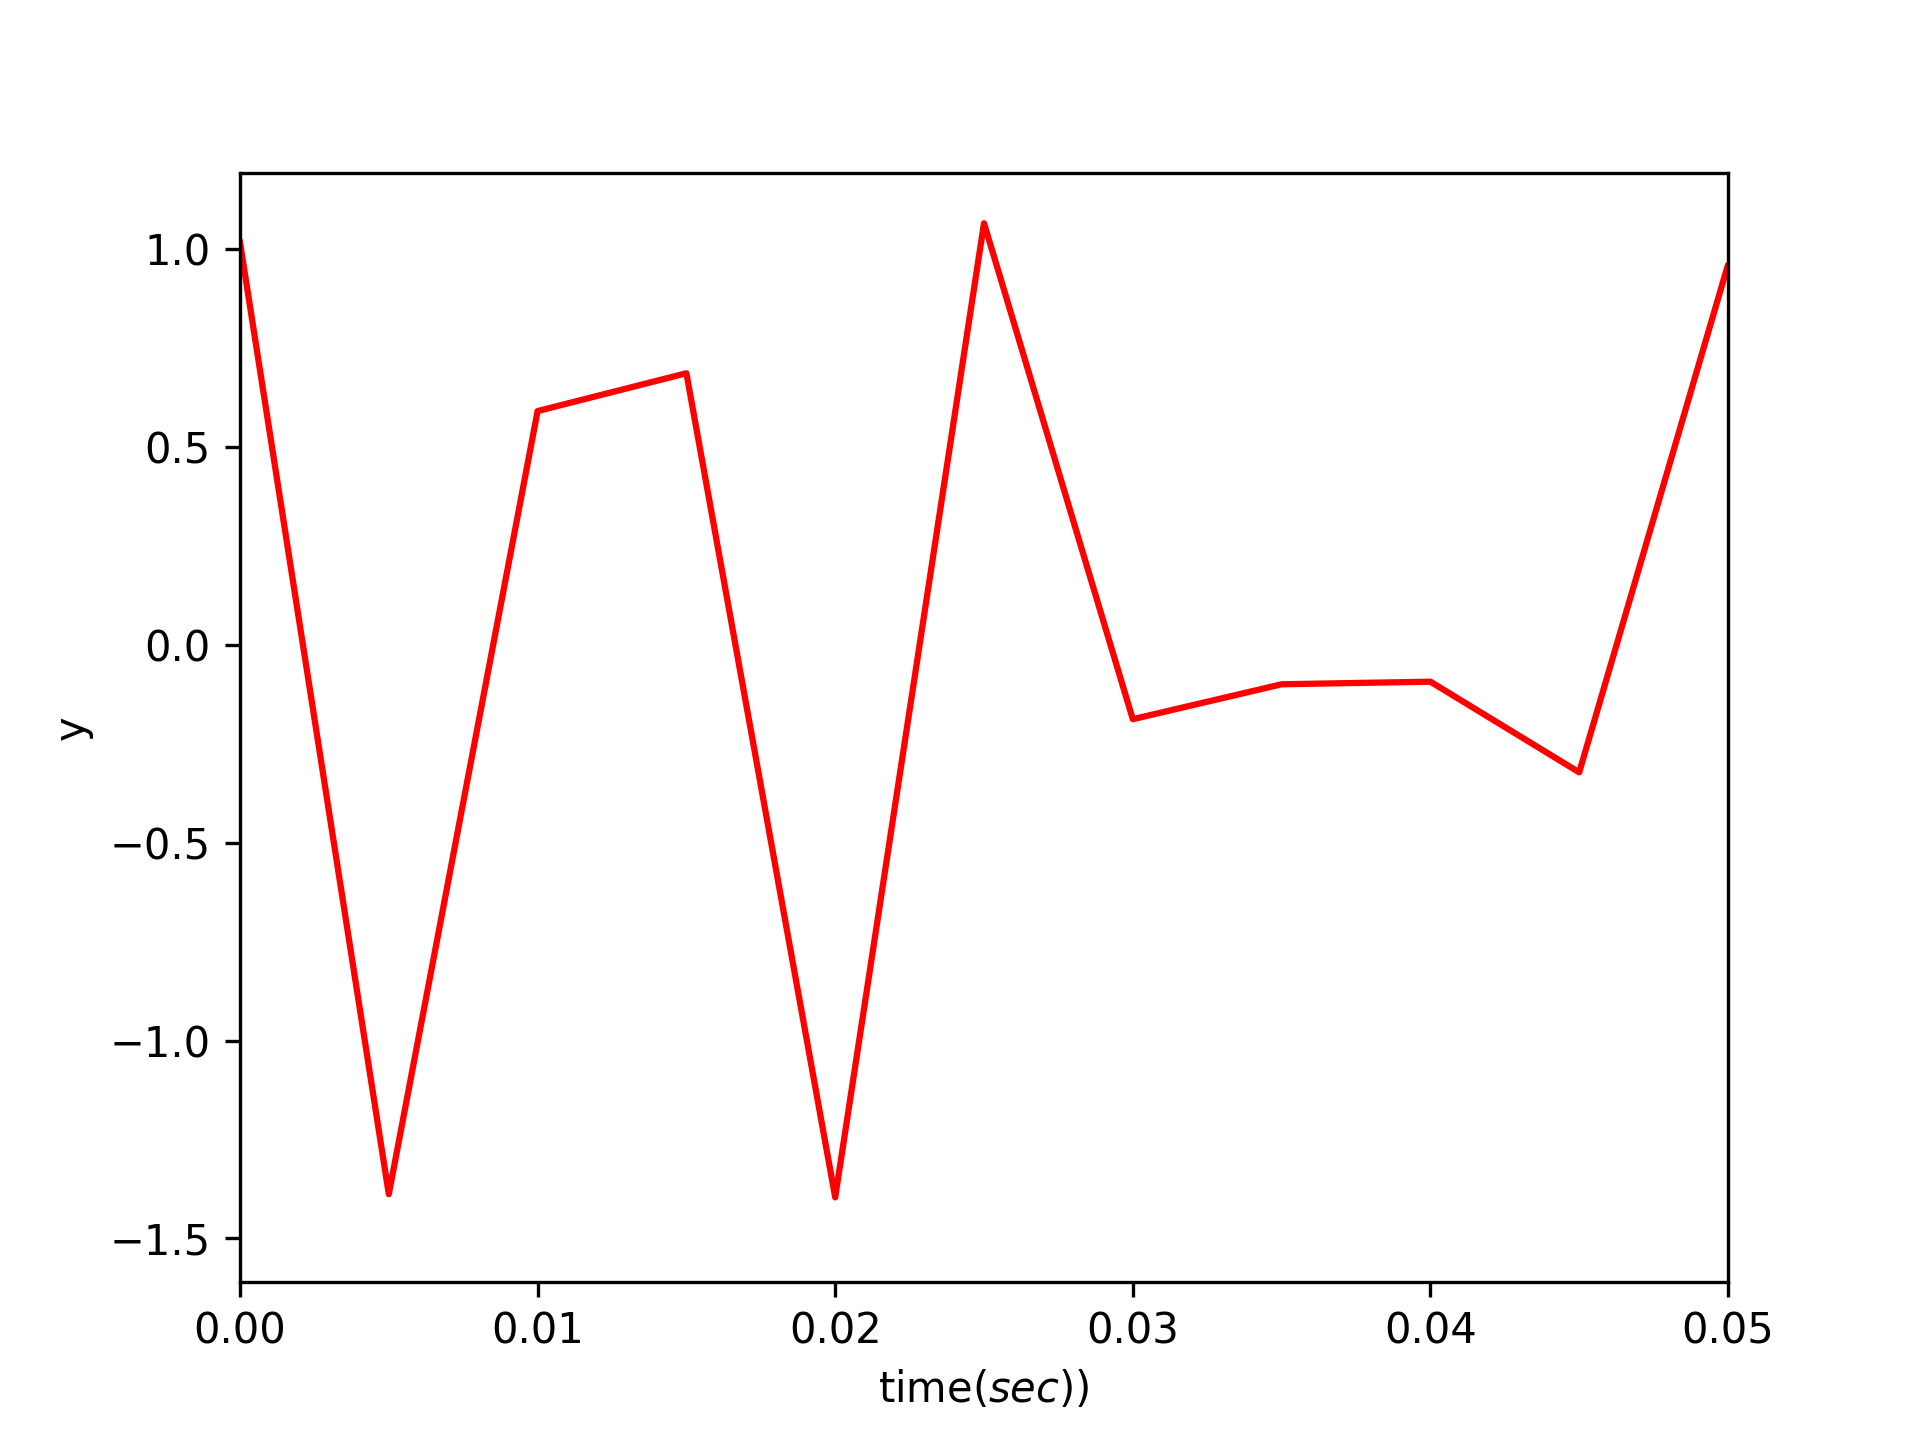
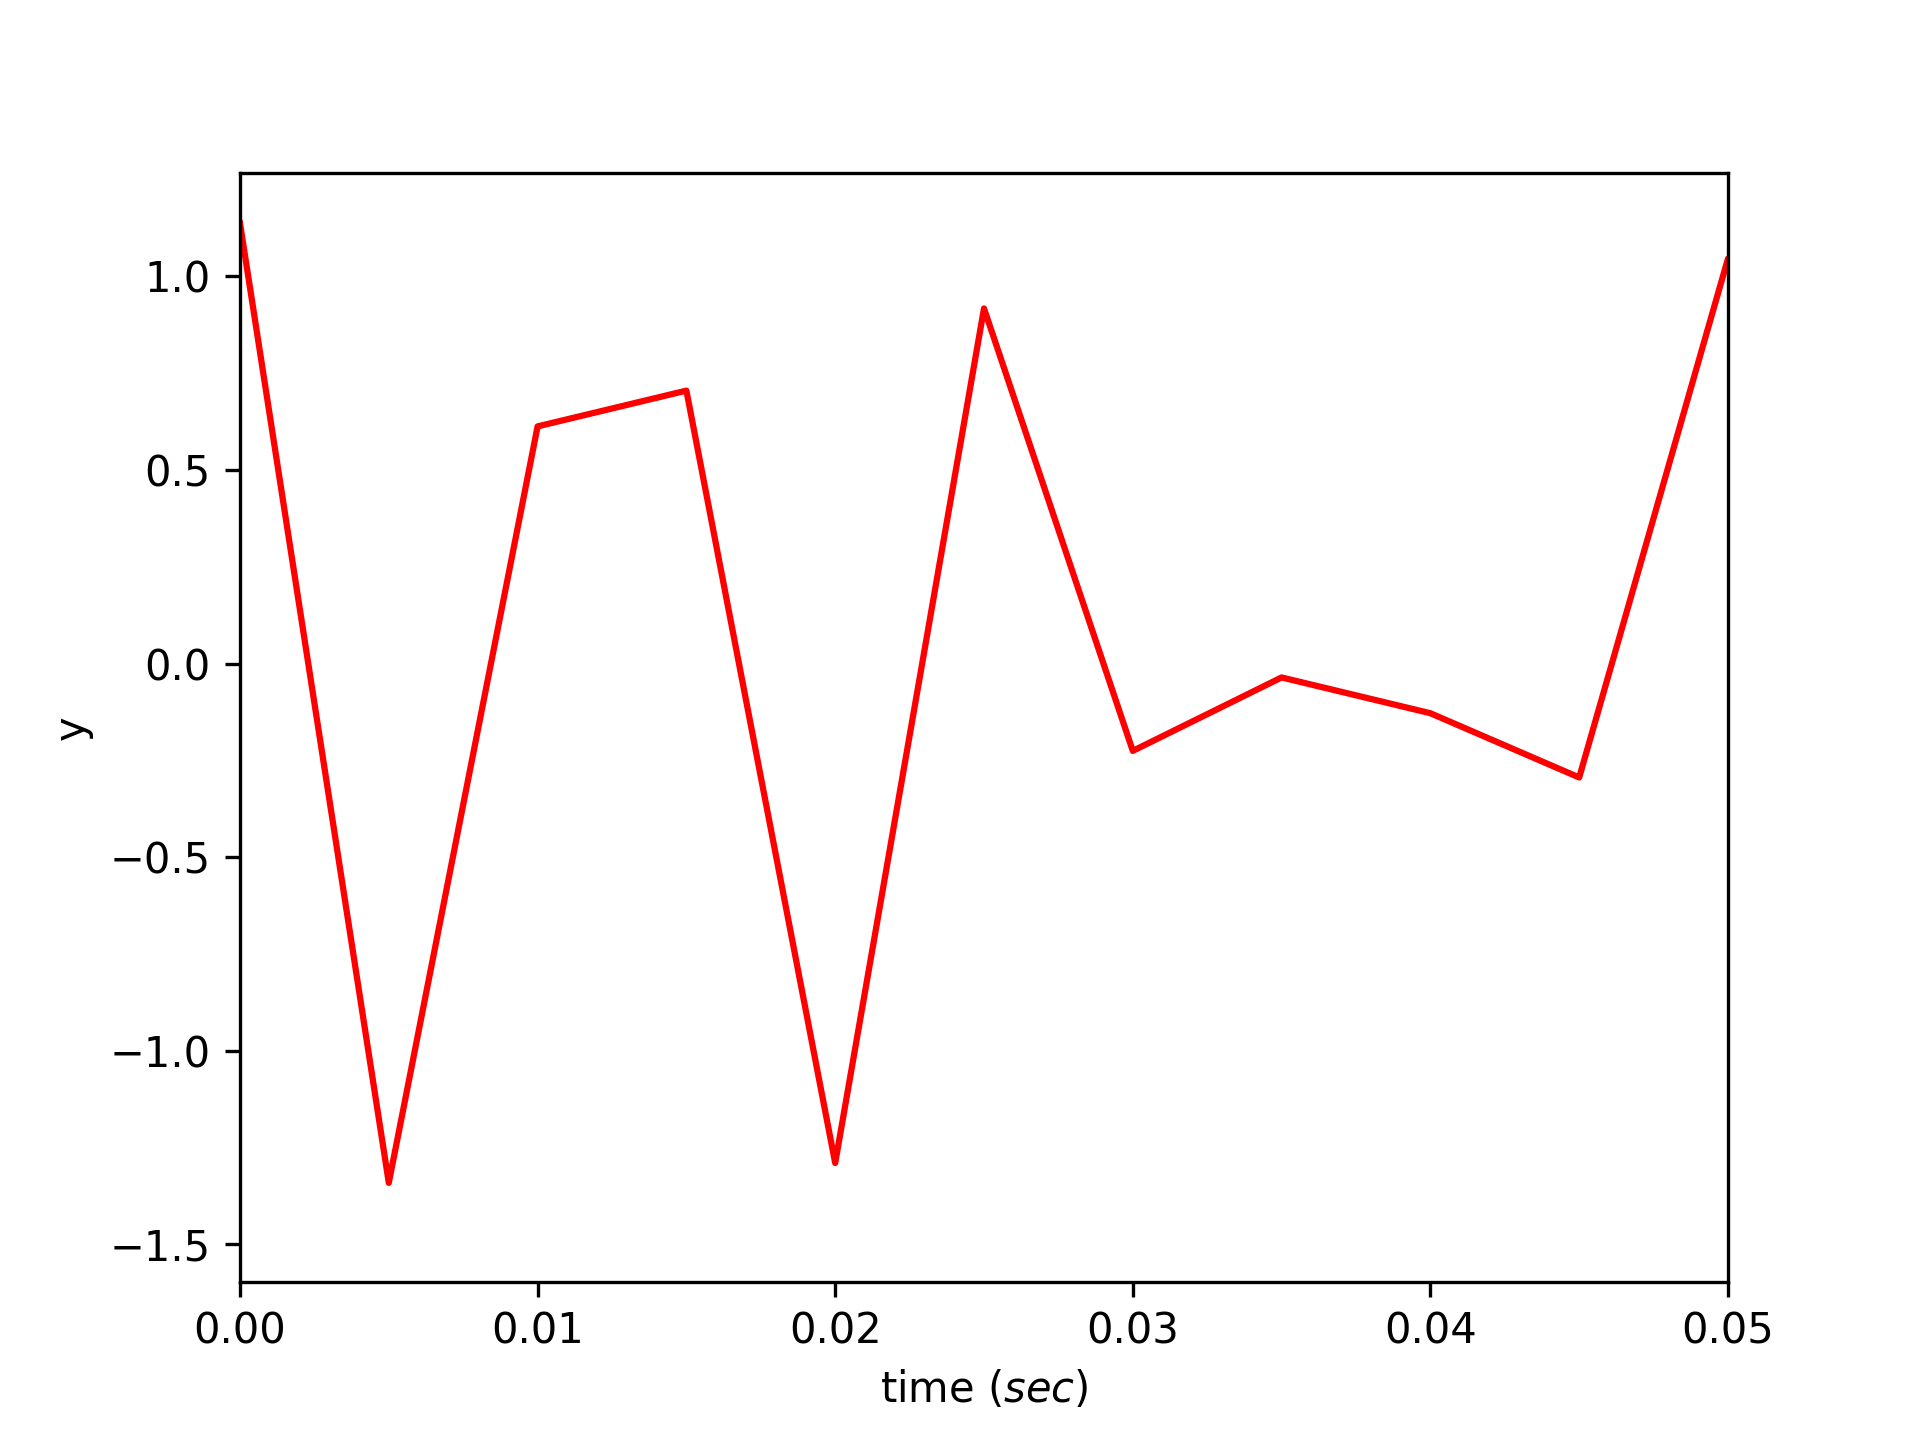
Style : modified Annotation
- 02chap/09_FFT.py
- #2

diff --git a/02chap/09_FFT.py b/02chap/09_FFT.py
@@ -6,72 +6,70 @@ import math
 St = 0.005                      # St : Sampling Time (샘플링 시간 간격)
 Fs = 1 / St                     # Fs : Sampling Frequency (샘플링 주파수) = 2000Hz, 1초 동안 2000번 샘플링
 T = 1 / Fs                      # T : Sampling Period (샘플링 주기) = 0.0005초
-te = 0.5                        # te : Sampling interval time (샘플링할 전체 시간 길이)
+te = 0.5                        # te : Total Sampling Time (샘플링할 전체 시간 길이)
 
-# Generating frequency arrays over time
+# Generating time vector
 t = np.arange(0, te, T)         # t : Time Vector, 0초부터 te까지 T 간격으로 시간 배열 생성
 
-# Define Noise (평균 0, 표준편차 0.05인 가우시안 분포를 따르는 랜덤 값, 길이는 t와 동일)
-noise = np.random.normal(0, 0.05, len(t))
+# Define Noise 
+noise = np.random.normal(0, 0.05, len(t))  # 평균 0, 표준편차 0.05인 가우시안 분포를 따르는 랜덤 값 생성
 
-# Frequency x (두 가지 주파수 성분을 더한 신호)
+# Generate signal with two frequency components
 # 60Hz 사인파 (진폭 0.6, 위상 π/2) + 120Hz 사인파 (진폭 1)
 x = 0.6 * np.cos(2 * np.pi * 60 * t + np.pi / 2) + np.cos(2 * np.pi * 120 * t)
-y = x + noise                   # Frequency y = x + noise
+y = x + noise                   # Signal with added noise
 
-# Frequency y plt 
-plt.figure(num=1, dpi=100, facecolor='white')       # 고유 번호 num 1, 해상도 100(적당)
+# Plot the time-domain signal
+plt.figure(num=1, dpi=100, facecolor='white')  # Figure with unique num, dpi=100
 plt.plot(t, y, 'r')
 plt.xlim(0, 0.05)
-plt.xlabel('time($sec$))')
+plt.xlabel('time ($sec$)')
 plt.ylabel('y')
 plt.savefig("data/fft_test_figure1.png", dpi=300)
 
-# Caculate FFT ***
-NFFT = len(y)                        # NFFT = len of signal
-#NFFT = 2**int(np.ceil(np.log2(n)))                 # NFFT를 n 이상인 2의 제곱수로 설정하여 zero-padding
-k = np.arange(NFFT)             # 0부터 NFFT-1까지의 정수 배열 (주파수 성분 인덱스)
+# Perform FFT ***
+NFFT = len(y)                     # NFFT : Number of data points (Signal length)
+k = np.arange(NFFT)               # Array of integer indices from 0 to NFFT-1
 
-# 1. 이산 주파수 범위 설정
-f0 = k * Fs / NFFT                      # double sides frequency range
-f0 = f0[range(math.trunc(NFFT/2))]      # single-sided frequency range
-# f0 = f0[:NFFT//2]                     # 슬라이싱을 이용하여 앞의 절반만 취함
+# Define frequency range for single-sided spectrum
+f0 = k * Fs / NFFT                # Double-sided frequency range
+f0 = f0[:NFFT // 2]               # Single-sided frequency range (Nyquist range)
 
-# 2. FFT 계산 및 단일 측면 주파수 범위 선택
-Y = np.fft.fft(y) / NFFT                # FFT 수행 후 Nomalization 
-Y = Y[range(math.trunc(NFFT/2))]        # single-sided frequency range
+# Compute FFT and adjust for single-sided spectrum
+Y = np.fft.fft(y) / NFFT          # Perform FFT and normalize
+Y = Y[:NFFT // 2]                 # Single-sided frequency range (Nyquist range)
 
-# 3. 주파수 성분의 진폭 및 위상 계산
-amplitude_Hz = 2*abs(Y)               # 단일 측면 주파수 성분의 진폭 계산 (두 배로 보정)
-phase_ang = np.angle(Y)*180/np.pi   # 각 주파수 성분의 위상을 도(degree)로 변환
+# Calculate amplitude and phase for frequency components
+amplitude_Hz = 2 * abs(Y)         # Amplitude for single-sided spectrum (corrected by 2x)
+phase_ang = np.angle(Y) * 180 / np.pi  # Convert phase to degrees
 
-# figure 1 
+# Plot time-domain signal
 plt.figure(num=2, dpi=100, facecolor='white')
 plt.subplots_adjust(hspace=0.6, wspace=0.3)
-plt.subplot(3,1,1)
+plt.subplot(3, 1, 1)
 plt.plot(t, y, 'r')
-plt.title('Singnal FFT analysis')
-plt.xlabel('time($sec$)')
+plt.title('Signal FFT Analysis')
+plt.xlabel('time ($sec$)')
 plt.ylabel('y')
 
-# figure 2 
-plt.subplot(3,1,2)
-plt.plot(2 * f0, amplitude_Hz, 'r')   #단일 측면 주파수의 성분을 표현하기 위한 보정
+# Plot single-sided amplitude spectrum
+plt.subplot(3, 1, 2)
+plt.plot(2 * f0, amplitude_Hz, 'r')  # Adjusted for single-sided frequency components
 plt.xlim(0, 200)
 plt.ylim(0, 1.2)
 plt.title('Single-Sided Amplitude Spectrum of y(t)')
-plt.xlabel('frequency($Hz$)')
+plt.xlabel('frequency ($Hz$)')
 plt.ylabel('amplitude')
 plt.grid()
 
-# figure 3
-plt.subplot(3,1,3)
-plt.plot(2 * f0, phase_ang, 'r')      #단일 측면 주파수의 성분을 표현하기 위한 보정
+# Plot single-sided phase spectrum
+plt.subplot(3, 1, 3)
+plt.plot(2 * f0, phase_ang, 'r')     # Adjusted for single-sided frequency components
 plt.xlim(0, 200)
 plt.ylim(-180, 180)
 plt.title('Single-Sided Phase Spectrum of y(t)')
-plt.xlabel('frequency($Hz$)')
-plt.ylabel('phase($deg.$)')
+plt.xlabel('frequency ($Hz$)')
+plt.ylabel('phase ($deg.$)')
 plt.xticks([0, 60, 120, 200])
 plt.yticks([-180, -90, 0, 90, 180])
 plt.grid()
